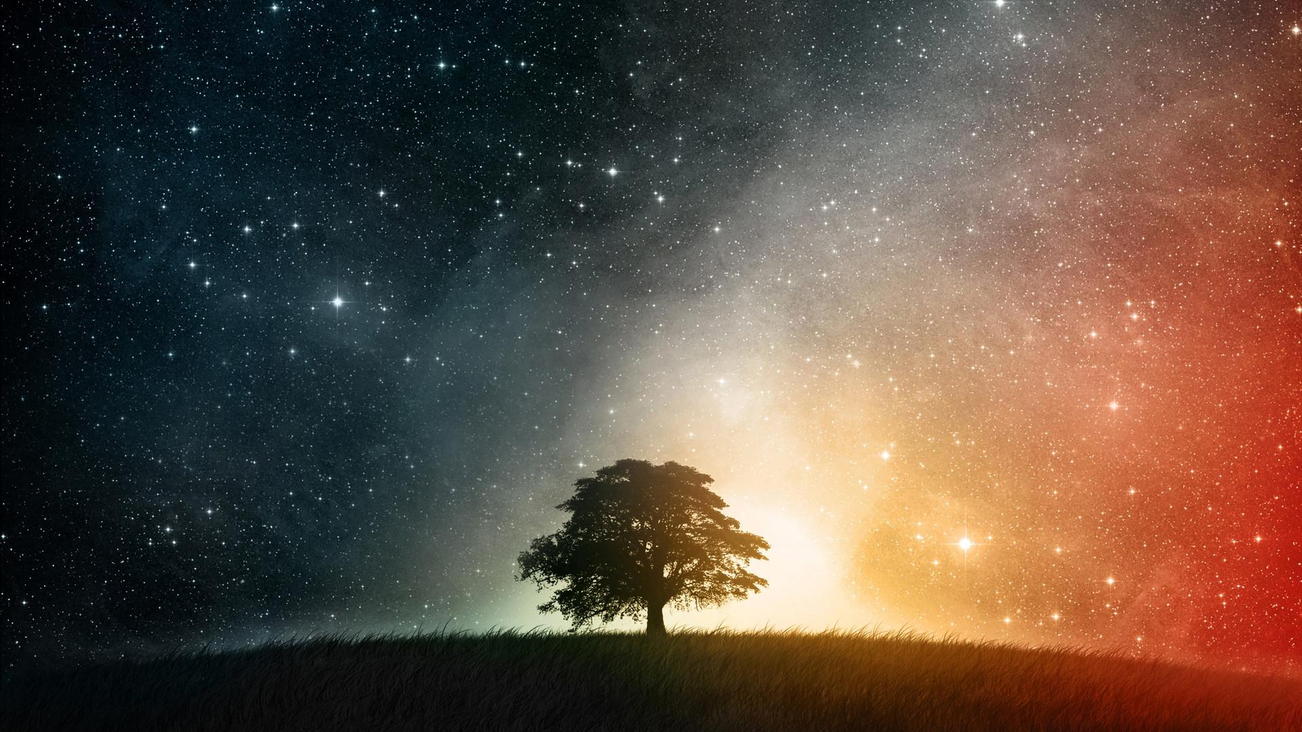
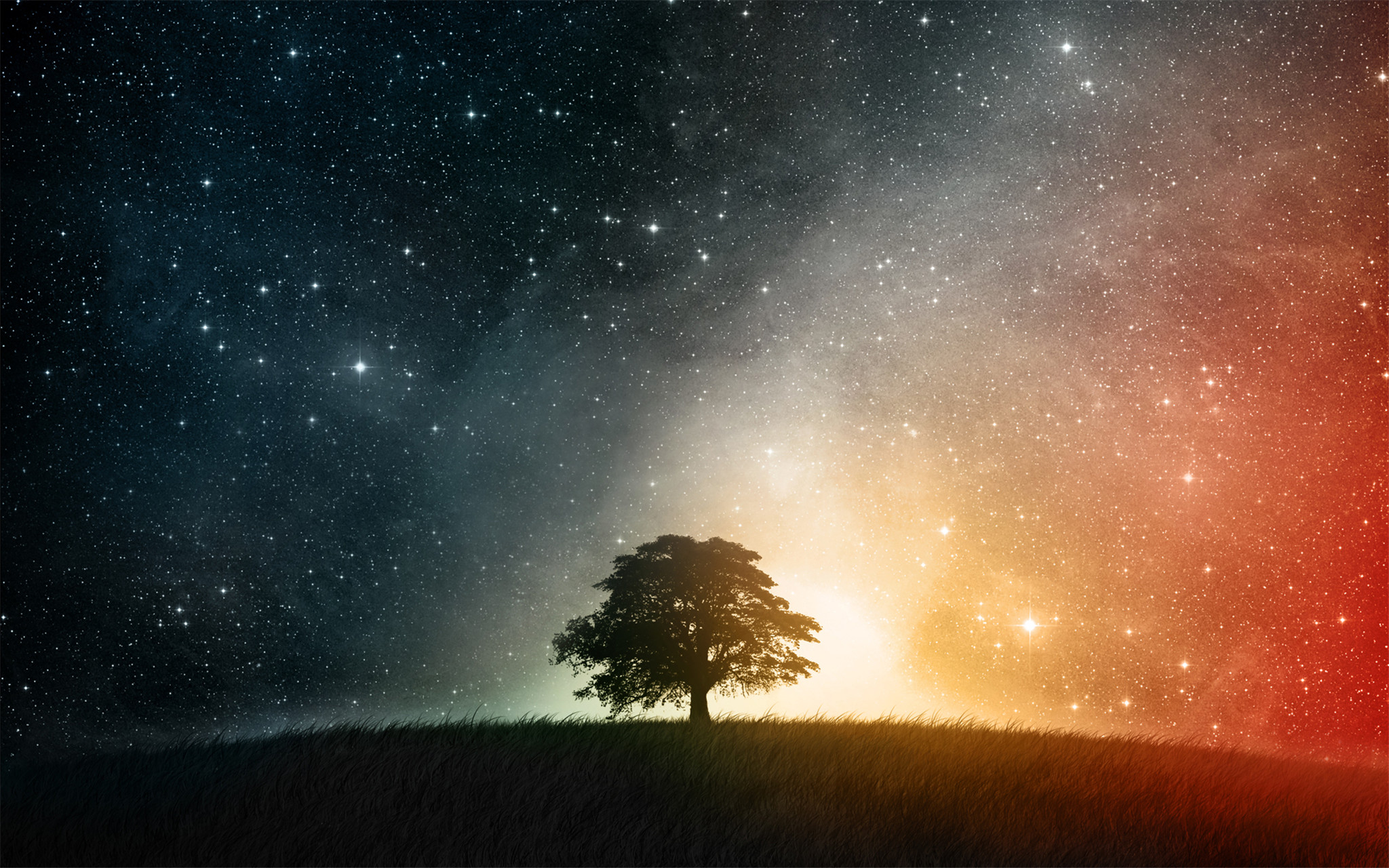
changement du fond d'écran

diff --git a/app/views/connexion/index.html b/app/views/connexion/index.html
@@ -1,6 +1,5 @@
 <html>
 <meta http-equiv="Content-Type" content="text/html; charset=utf-8" />
-<link rel="stylesheet" href="style.css" />
 <link rel="shortcut icon" href="image/ico1.ico">
 <title>Site</title>
 <head>
@@ -79,8 +78,12 @@
 
         body
         {
-        	background: url(image/img2.jpg) fixed no-repeat right top;
-        	background-position: center;
+        	background: url(image/img3.png) no-repeat;
+            margin: 0;
+            padding: 0;
+            background-size: cover;
+            font-family: sans-serif;
+            opacity: .9;
 
         }
 
@@ -96,10 +99,18 @@
             width: 99%;
         }
 
+        /*.blur 
+        {
+            width: auto;
+            position: relative;
+            background: transparent url(image/image2.jpg) 3px 3px no-repeat;
+            opacity: .9;
+        } */
+
     </style>
-<div id="cadreco">
+<div class="container" id="cadreco">
     <p id="aligne"><b id = "titre">Authentification</b></p>
-    <div id="map"></div>
+    <div id="map" ></div>
     <script>
       function initMap() {
         var uluru = {lat: 49.2015847, lng: -0.3804248};
